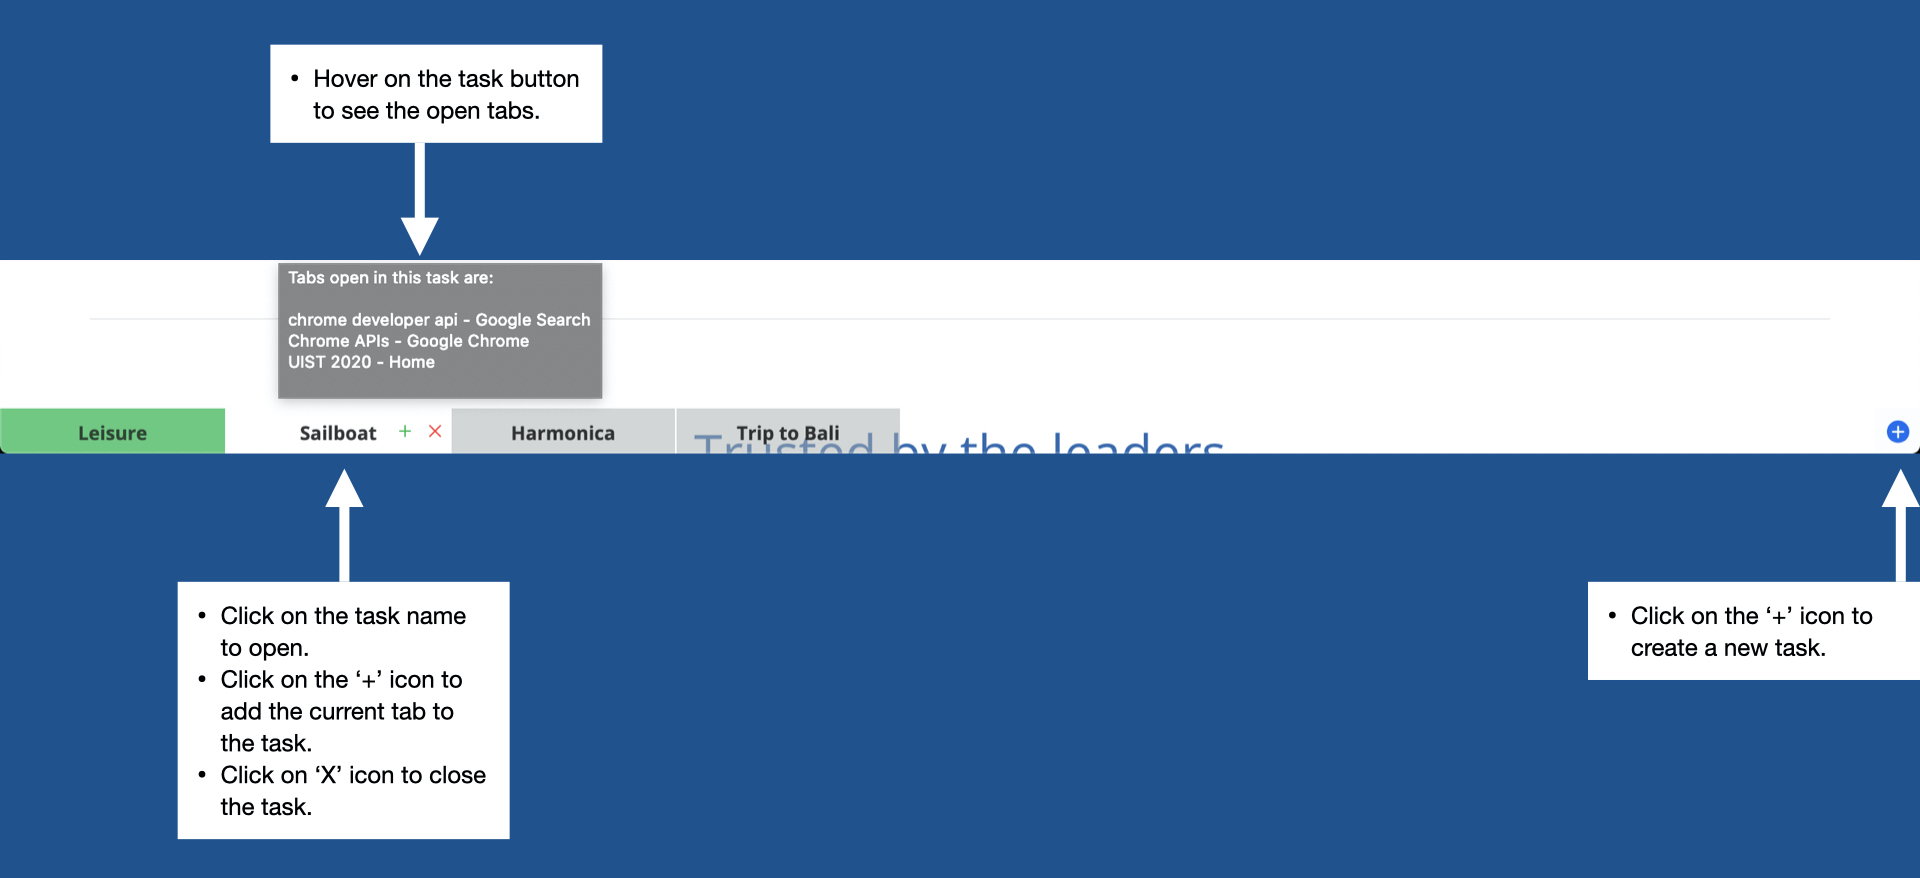
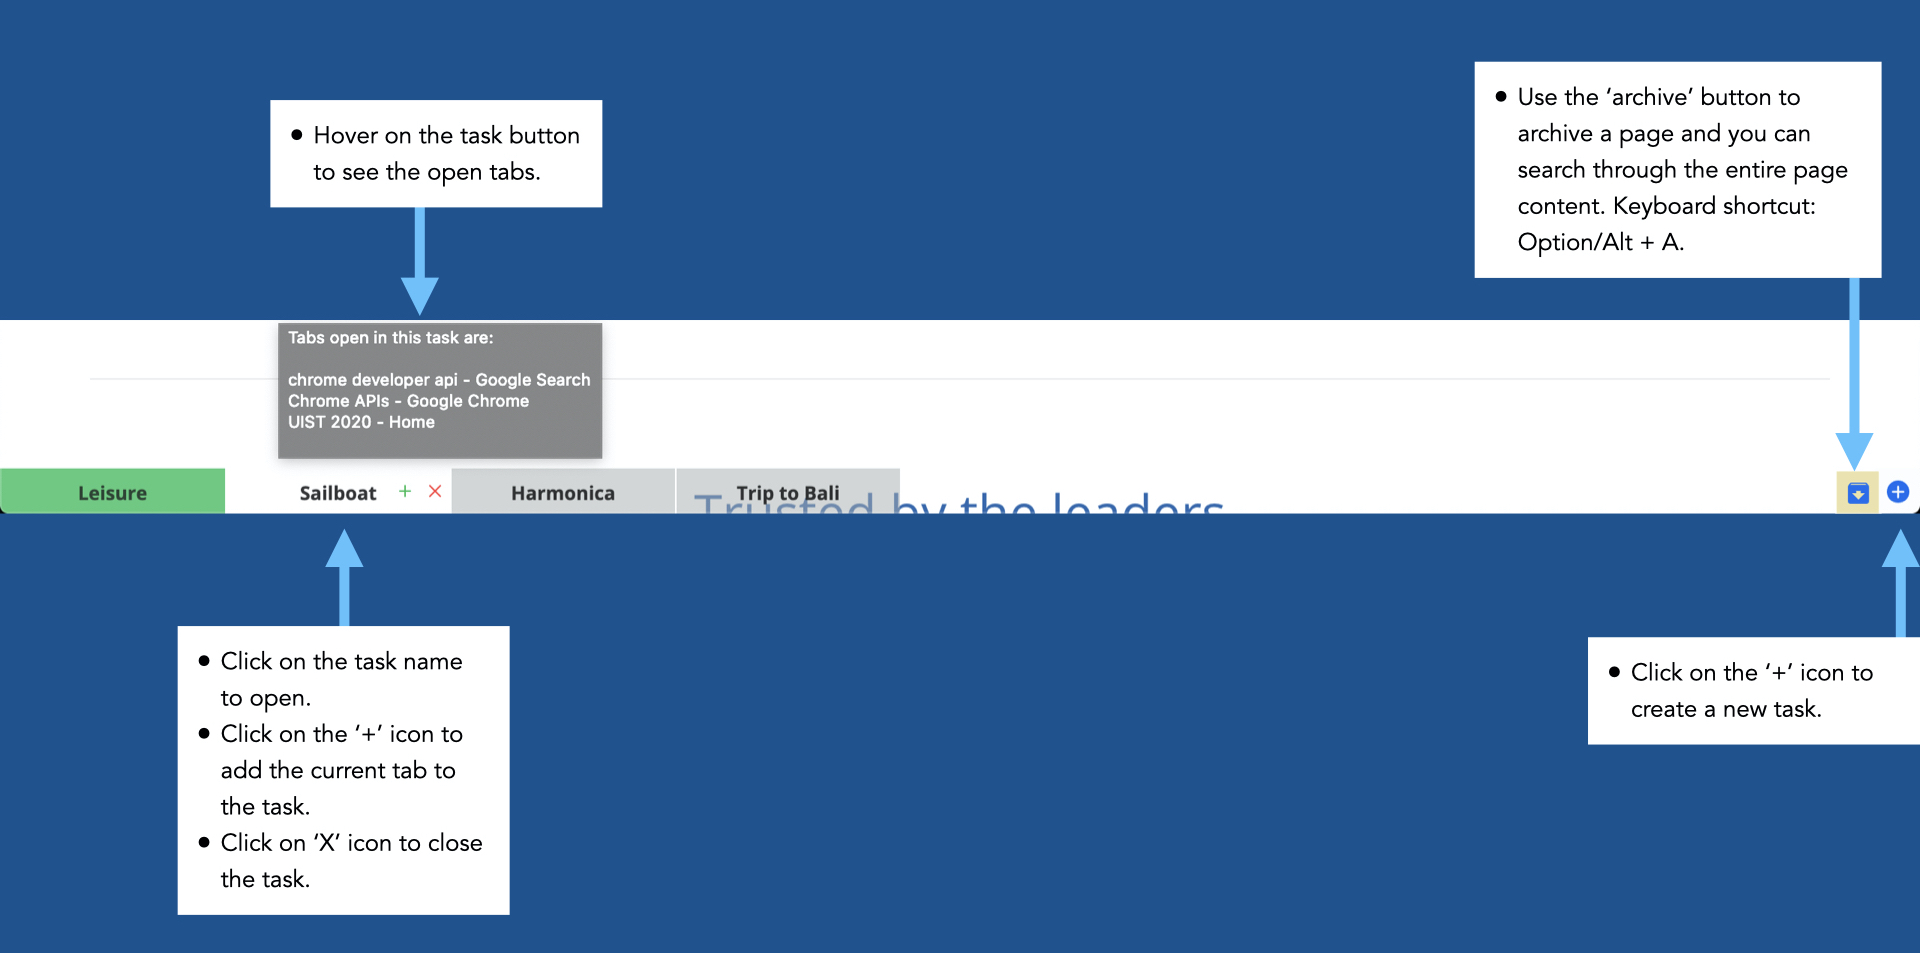
Updating the about page.

Changed region(s): [[0.0, 0.0308, 1.0, 0.9841]]

diff --git a/html/about.html b/html/about.html
@@ -38,11 +38,11 @@
             <li>Create and switch easily between tasks such as ”Philosophy Paper”, ”Summer Internships”, and
                 ”Trip to China” letting you manage browser tabs and windows more efficiently.
             </li>
-            <li>Keep your tabs, windows, and bookmarks organized.</li>
             <li>Archive tasks that you are done with while preserving all the browsing data and revisit it
                 months later. Soon you will be able to share a task with someone too!
             </li>
             <li>See the time spent on different tasks to aid productivity.</li>
+            <li>Create and search through your 'personal web' by 'archiving' pages.</li>
         </ul>
         These features provide the foundation for many more novel features that we would like to develop in the future.
         </p>
@@ -91,6 +91,18 @@
                 hide the dock temporarily.</i>
             </div>
             <img class="feature-image" src="../images/about-page/dock.jpeg">
+            <br>
+        </div>
+        <br>
+        <div class="feature-block">
+            <h4><strong>Personal web</strong></h4>
+            <div class="feature-description">
+                Build your <b>personal web</b> by archiving the pages you find useful. You will be able to search through the full page content of the archived pages.
+                Whenever you search something on Google, results from your archive will be displayed on a panel.
+                You can hide the panel by clicking on the icon at the top right.
+                <br><br><i>Quick tip: Use keyboard shortcut 'Option/Alt + A' to archive/unarchive a page.</i>
+            </div>
+            <img class="feature-image" src="../images/about-page/archive-results.png">
             <br>
         </div>
 

diff --git a/contentscripts/dock.js b/contentscripts/dock.js
@@ -15,7 +15,7 @@ $(document).ready(function () {
             loadDock();
             loadNewTaskBtn();
             loadTaskNames(CTASKID);
-            loadClickLogger();
+            // loadClickLogger();
             loadArchiveButton();
             // sendDetectTaskMessage();
             // checkAndUpdateCollections();
@@ -243,10 +243,11 @@ function loadHoverBooster() {
 }
 
 window.onkeydown = function(event) {
-    if (event.code === 'ControlLeft') {
+    if (event.code === 'KeyA' && event.altKey) {
+        handleArchivePage();
+    } else if (event.code === 'ControlLeft') {
         $('.sailboat-parts').hide();
     }
-
     if (event.code === 'Escape') {
         hideNewTaskPopup();
     }
